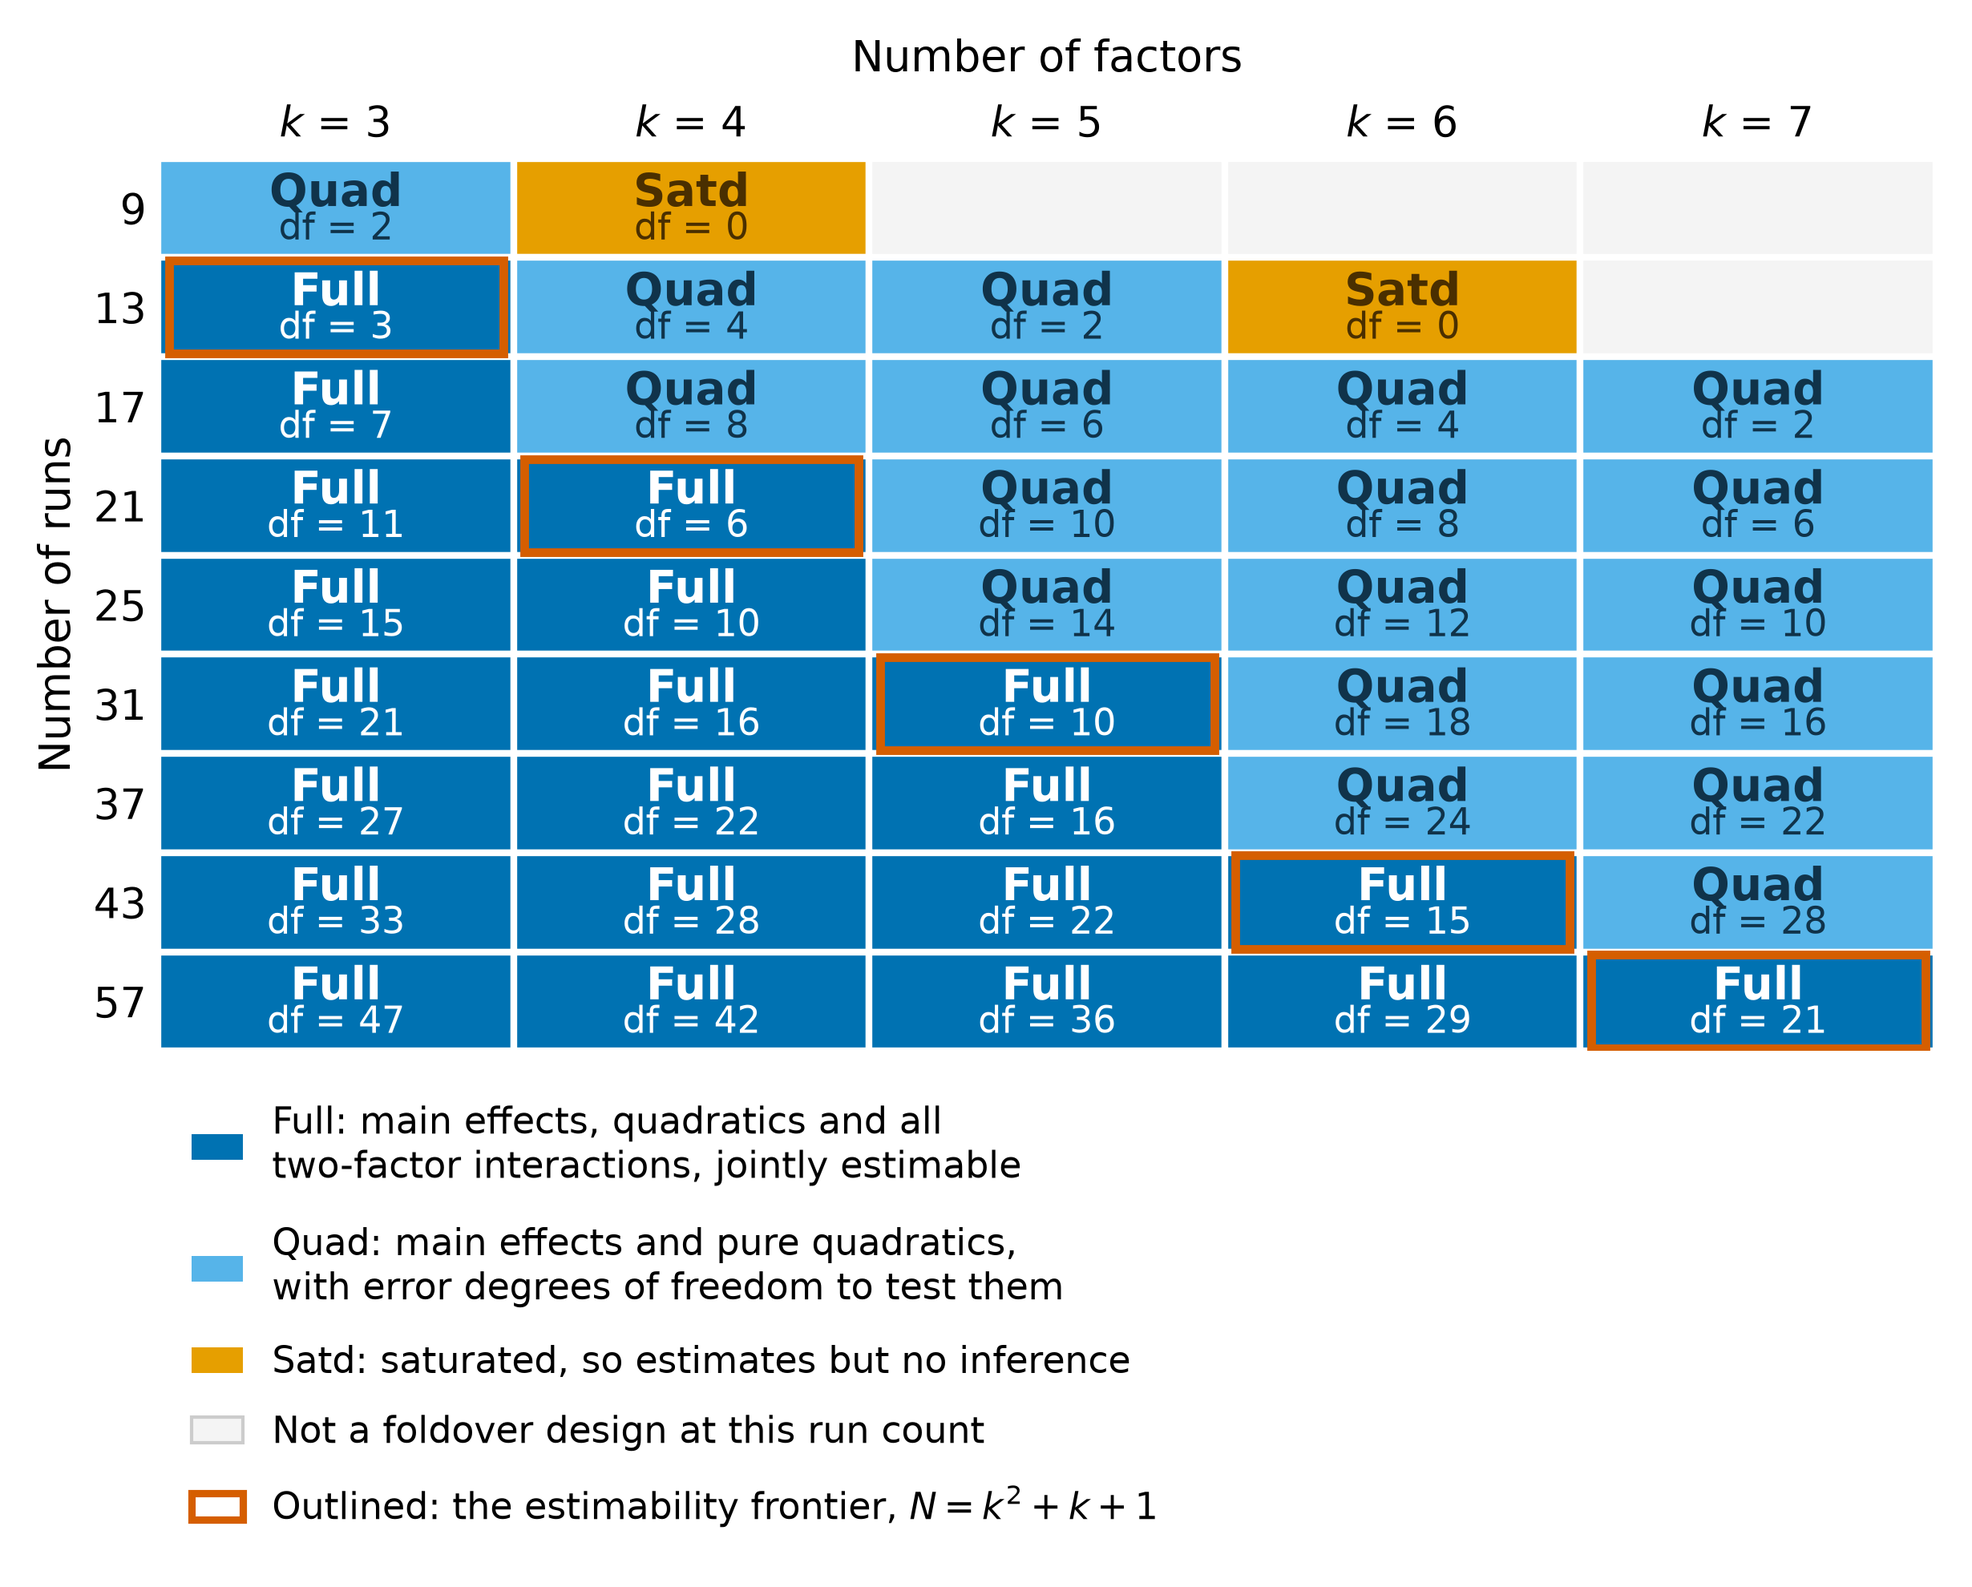
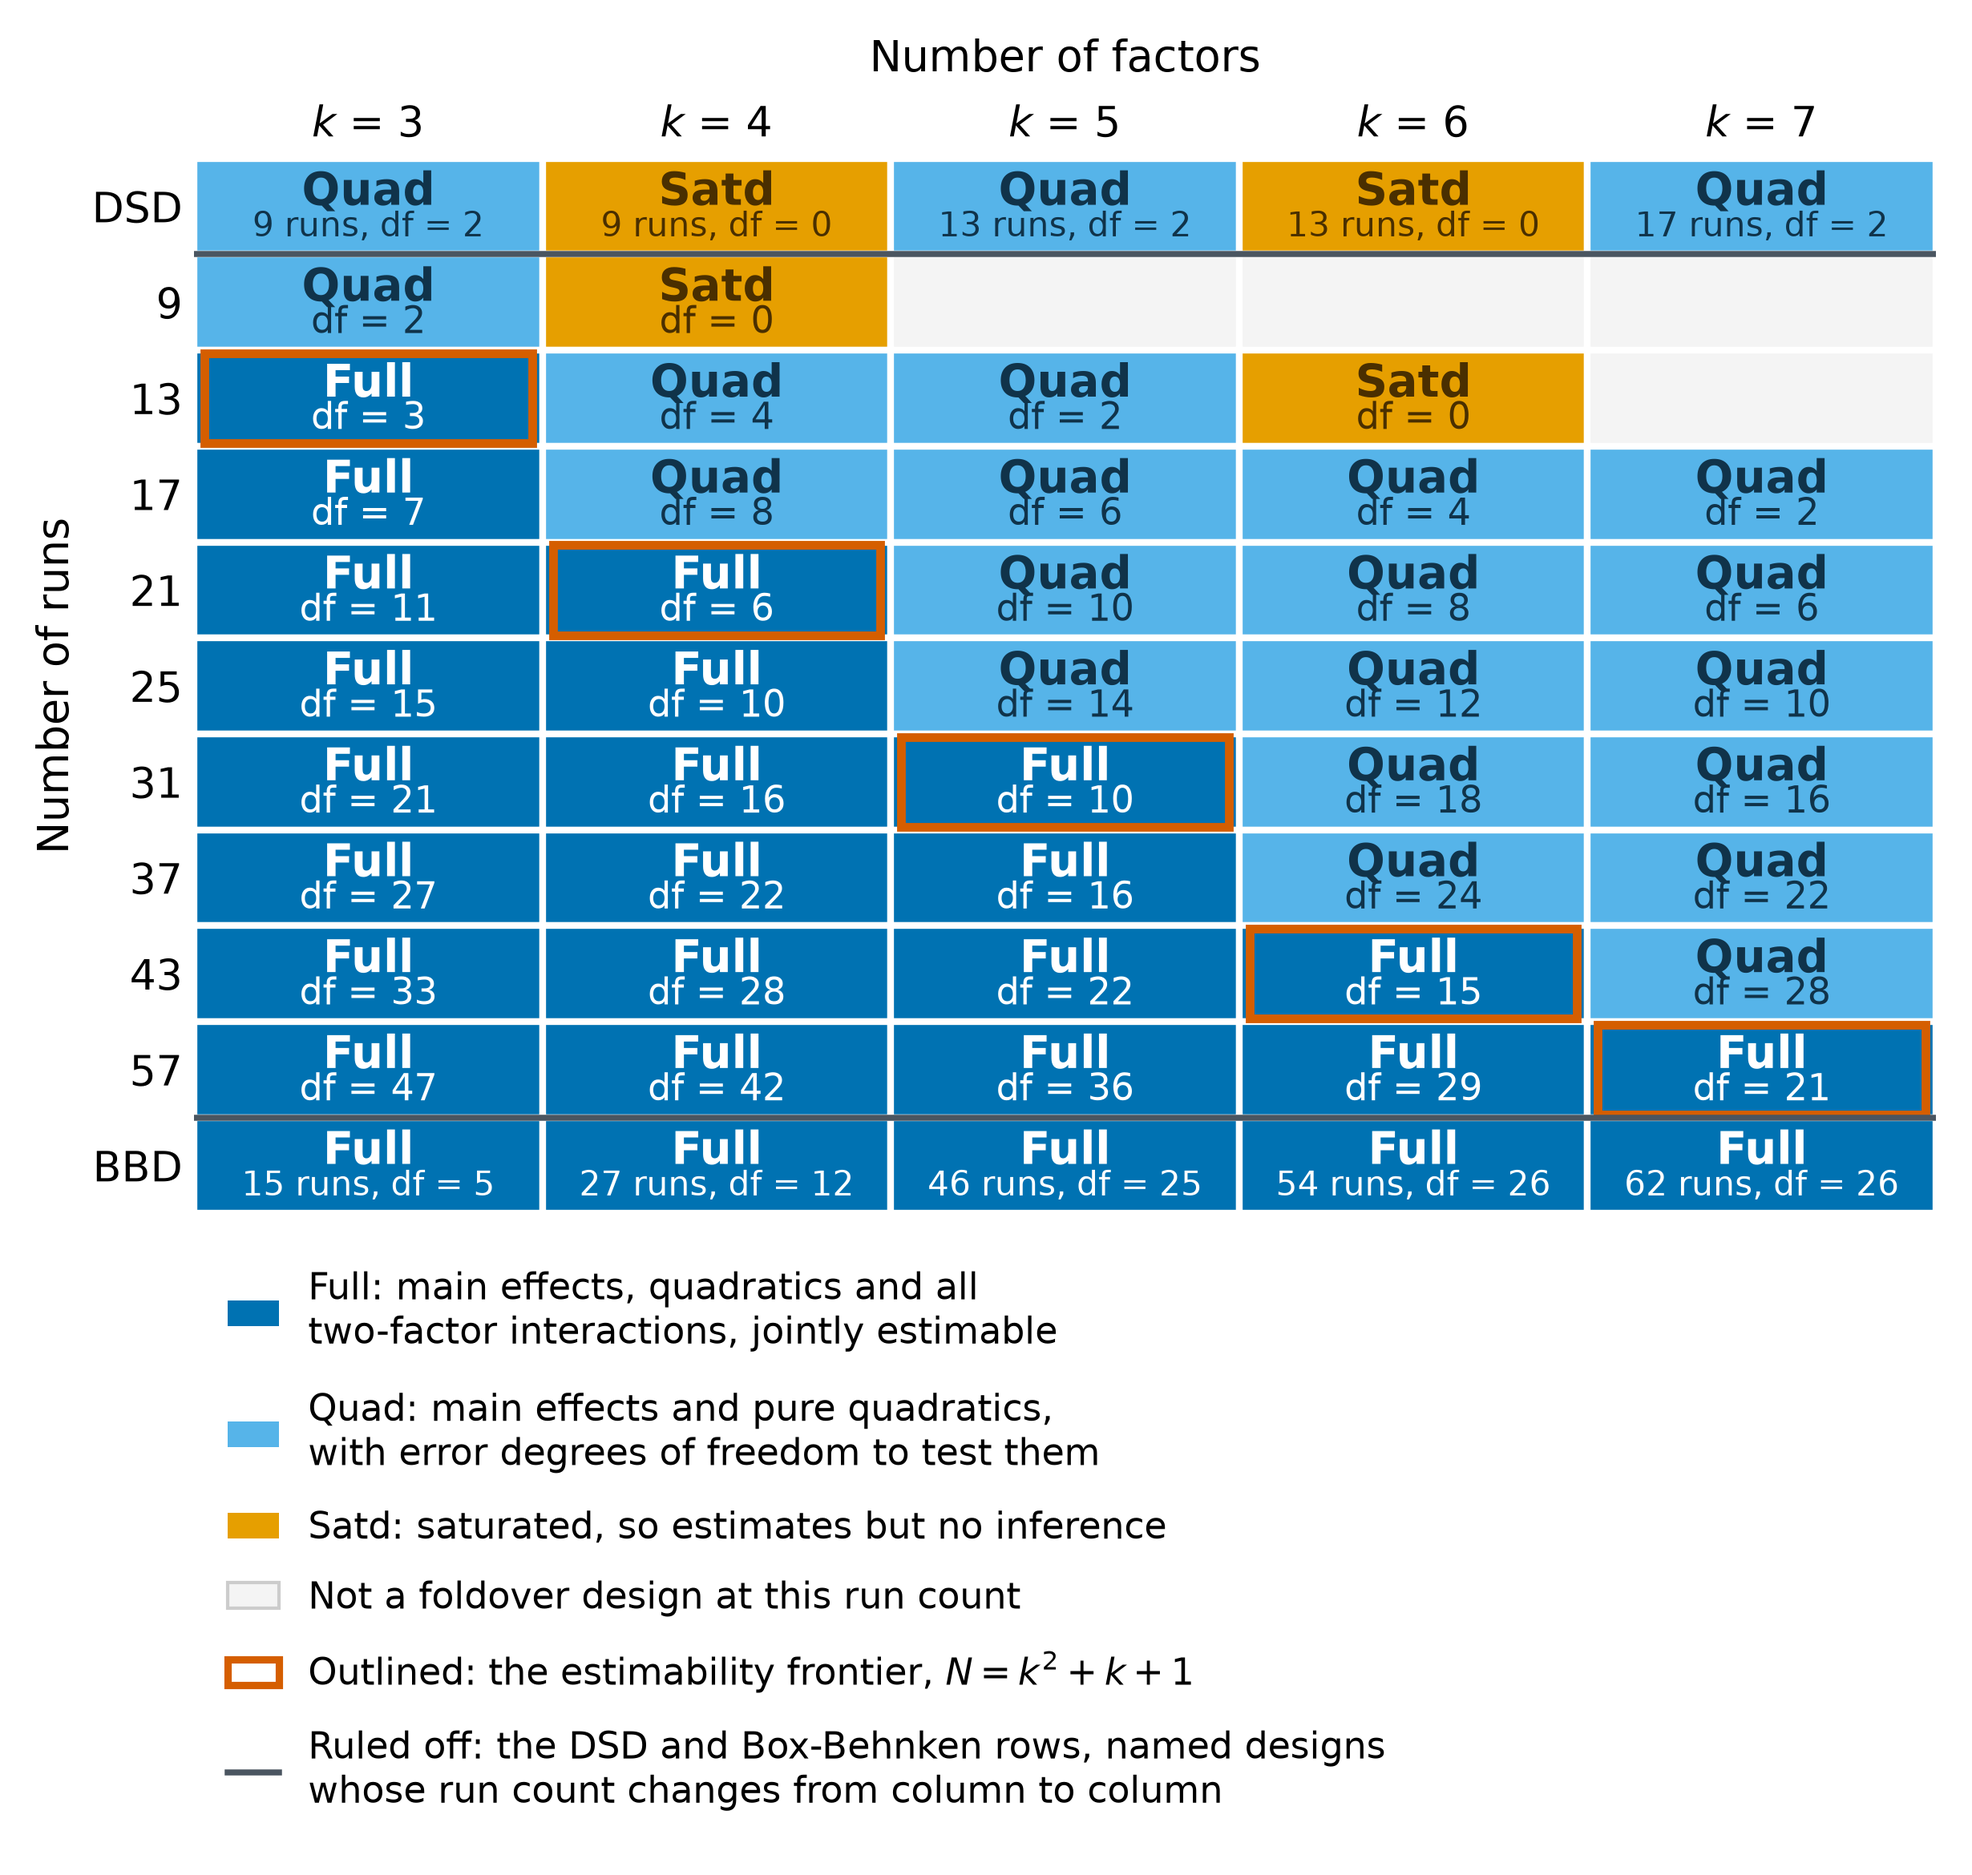
Anchor the capability staircase with the DSD and Box-Behnken rows
The staircase showed run budgets from 9 to 57 with no fixed reference at either
end, so a reader could not see where the standard designs sit on it. A DSD row
now sits above the budgets and a Box-Behnken row below them, ruled off from the
budgets and from each other, which is the span the OMARS family covers: the
definitive screening design is its smallest member and the Box-Behnken design is
among its largest.

An anchor row is a named design rather than a budget, so its run count changes
from column to column and is carried inside the cell rather than read off the
row label. Both anchor rows come from the library's _reference_entry, so they
cannot drift away from it any more than the budget cells can.

The frontier outlines shift down a row to account for the DSD row above them.

Claude-Session: https://claude.ai/code/session_01W1daHPaXLs7PPRsq8CmMMm

Changed region(s): [[0.0, 0.0, 0.9886, 0.9859]]

diff --git a/doe/omars-capability-staircase.py b/doe/omars-capability-staircase.py
@@ -11,16 +11,25 @@ model the run budget makes estimable:
     Satd  saturated (the definitive screening design size): no error degrees of freedom
 
 The number in each cell is the error degrees of freedom left over. Blank cells are budgets
-that are not a foldover design at all. Every value is read from
-get_omars_trade_off_table_entry, so the figure cannot drift away from the library.
+that are not a foldover design at all.
+
+The first and last rows are anchors rather than budgets: the definitive screening design is
+the smallest member of the OMARS family and the Box-Behnken design is among the largest, so
+between them they show the span the family covers. A named design has its own run count in
+each column, unlike a budget row where one count is read straight across, so the anchor cells
+carry their run count with them.
+
+Every value is read from the library, get_omars_trade_off_table_entry for the budgets and
+_reference_entry for the anchors, so the figure cannot drift away from it.
 
 Reproducible; run from this directory to write the PNG alongside it.
 """
 import matplotlib.pyplot as plt
 import numpy as np
+from matplotlib.lines import Line2D
 from matplotlib.patches import Patch, Rectangle
 from process_improve.experiments import get_omars_trade_off_table_entry
-from process_improve.experiments.omars_trade_off import DEFAULT_FACTORS, DEFAULT_RUNS
+from process_improve.experiments.omars_trade_off import DEFAULT_FACTORS, DEFAULT_RUNS, _reference_entry
 
 # Okabe-Ito colourblind-safe palette, ordered by decreasing capability.
 FILLS = {"full": "#0072B2", "quad": "#56B4E9", "satd": "#E69F00", "none": "#F4F4F4"}
@@ -29,32 +38,57 @@ INKS = {"full": "white", "quad": "#10334A", "satd": "#4A2F00", "none": "#F4F4F4"
 runs, factors = DEFAULT_RUNS, DEFAULT_FACTORS
 cells = [[get_omars_trade_off_table_entry(n, k, display=False) for k in factors] for n in runs]
 
-fig, ax = plt.subplots(figsize=(8.2, 6.6))
+# Anchor rows. The definitive screening design is the smallest member of the OMARS family and
+# the Box-Behnken design is among the largest, so they bracket the budgets and show the span the
+# family covers. Their run counts change from column to column, so those go inside the cell.
+anchors = [("DSD", [_reference_entry("dsd", k) for k in factors]),
+           ("BBD", [_reference_entry("bbd", k) for k in factors])]
+rows = [anchors[0], *((str(n), row) for n, row in zip(runs, cells)), anchors[1]]
 
-for i, row in enumerate(cells):
+fig, ax = plt.subplots(figsize=(8.2, 7.8))
+
+for i, (_, row) in enumerate(rows):
+    anchor = i in (0, len(rows) - 1)
     for j, cell in enumerate(row):
-        ax.add_patch(Rectangle((j, i), 1, 1, facecolor=FILLS[cell.capability],
+        capability = "none" if cell is None else cell.capability
+        ax.add_patch(Rectangle((j, i), 1, 1, facecolor=FILLS[capability],
                                edgecolor="white", lw=2.0))
-        if cell.exists:
+        if cell is None or not cell.exists:
+            continue
+        ink = INKS[capability]
+        if anchor:
+            # The run count belongs in the cell here, because an anchor row is a named design
+            # whose size changes column by column rather than a single budget read across.
             ax.text(j + 0.5, i + 0.36, cell.tag, ha="center", va="center",
-                    fontsize=13.5, fontweight="bold", color=INKS[cell.capability])
+                    fontsize=13.5, fontweight="bold", color=ink)
+            ax.text(j + 0.5, i + 0.72, f"{cell.n_runs} runs, df = {cell.error_df}",
+                    ha="center", va="center", fontsize=10, color=ink)
+        else:
+            ax.text(j + 0.5, i + 0.36, cell.tag, ha="center", va="center",
+                    fontsize=13.5, fontweight="bold", color=ink)
             ax.text(j + 0.5, i + 0.72, f"df = {cell.error_df}", ha="center", va="center",
-                    fontsize=11, color=INKS[cell.capability])
+                    fontsize=11, color=ink)
+
+# Separate the anchor rows from the budget rows: the budgets are a single run count read across
+# every column, the anchors are a named design whose size changes column by column.
+for edge in (1, len(rows) - 1):
+    ax.plot([0, len(factors)], [edge, edge], color="#4A5560", lw=1.8, zorder=5)
 
 # Outline the first Full cell in each column: that is the estimability frontier,
-# N = k^2 + k + 1, the same staircase plotted in omars-estimability-frontier.py.
+# N = k^2 + k + 1, the same staircase plotted in omars-estimability-frontier.py. The offset of
+# one skips the DSD row, which sits above the budgets.
 for j, k in enumerate(factors):
     first = next((i for i, n in enumerate(runs) if n >= k**2 + k + 1), None)
     if first is not None:
-        ax.add_patch(Rectangle((j + 0.03, first + 0.03), 0.94, 0.94, fill=False,
+        ax.add_patch(Rectangle((j + 0.03, first + 1.03), 0.94, 0.94, fill=False,
                                edgecolor="#D55E00", lw=2.6, zorder=4))
 
 ax.set_xlim(0, len(factors))
-ax.set_ylim(len(runs), 0)
+ax.set_ylim(len(rows), 0)
 ax.set_xticks([j + 0.5 for j in range(len(factors))])
 ax.set_xticklabels([f"$k$ = {k}" for k in factors], fontsize=12.5)
-ax.set_yticks([i + 0.5 for i in range(len(runs))])
-ax.set_yticklabels([str(n) for n in runs], fontsize=12.5)
+ax.set_yticks([i + 0.5 for i in range(len(rows))])
+ax.set_yticklabels([label for label, _ in rows], fontsize=12.5)
 ax.xaxis.set_ticks_position("top")
 ax.xaxis.set_label_position("top")
 ax.set_xlabel("Number of factors", fontsize=13, labelpad=10)
@@ -73,6 +107,9 @@ legend = [
           label="Not a foldover design at this run count"),
     Patch(facecolor="white", edgecolor="#D55E00", lw=2.2,
           label="Outlined: the estimability frontier, $N = k^2 + k + 1$"),
+    Line2D([0], [0], color="#4A5560", lw=1.8,
+           label="Ruled off: the DSD and Box-Behnken rows, named designs\n"
+                 "whose run count changes from column to column"),
 ]
 ax.legend(handles=legend, loc="upper left", bbox_to_anchor=(0.0, -0.02),
           fontsize=11, frameon=False, handlelength=1.4, labelspacing=0.9)
